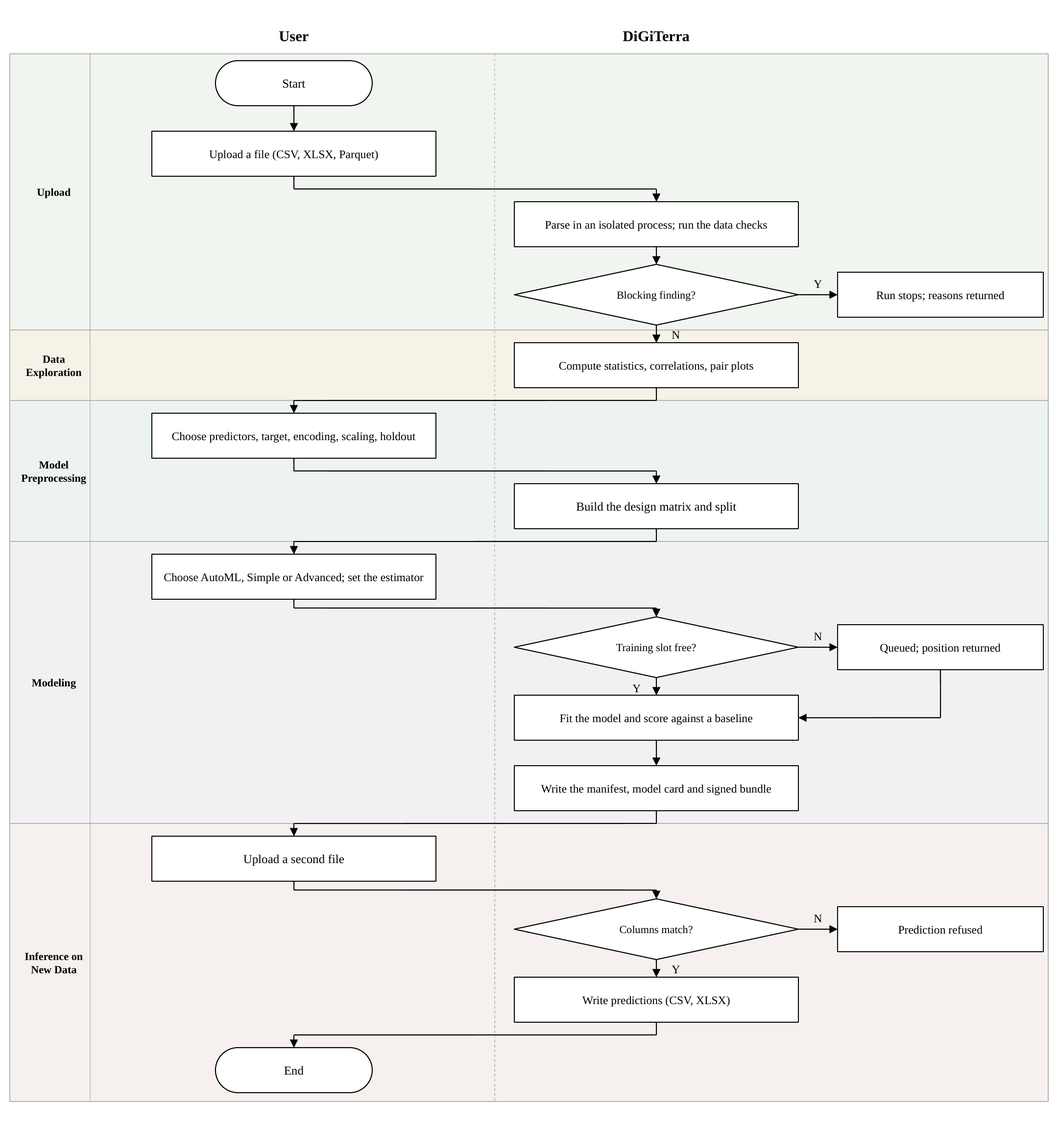
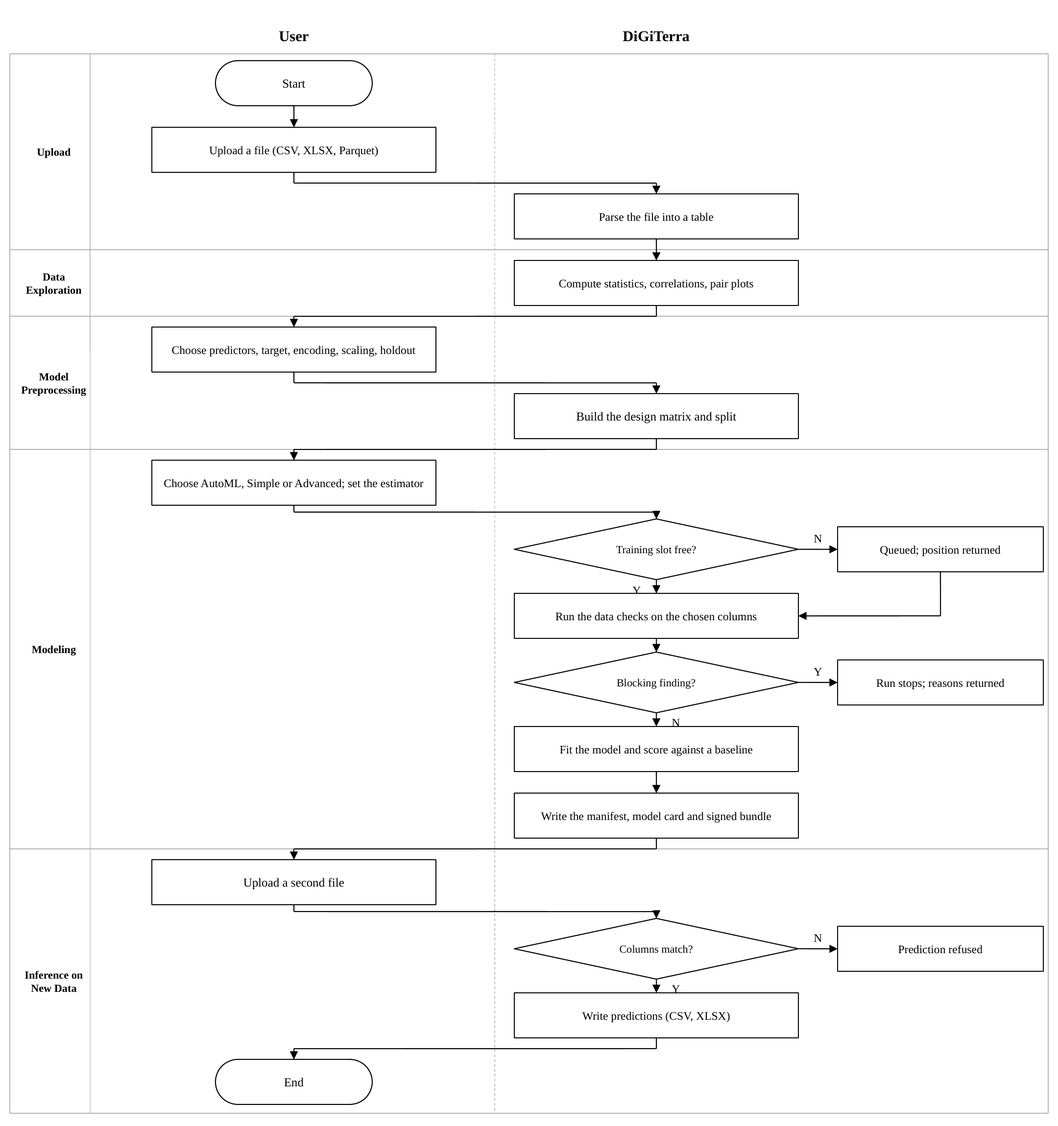
Paper: citation audit v4 fixes, AI usage disclosure, Figure 1 data checks; supplement release section
paper.md and paper.bib as revised after the citation audit of 2026-10-03
(26 citations of 25 references at 8e9f171; 8 partly supported sentences
rewritten to what the sources say; of 24 repository claims the records do
not fully support, 22 corrected and the EDX hosting description left for
the authors). Adds the JOSS AI usage disclosure (Claude Opus 5, Cursor)
with two references. Figure 1 draws the data checks in the Modeling band,
where app_model_training.py runs them, on a white ground. Body 1,745 words.

The JOSS supplement gains a release 0.1.0 section (sweep and round trip
69 of 69 on Linux and macOS, E1 rerun equal to the record, processor-type
difference in tree ensembles). The other docs/audit_2026-09-25 files carry
the commit hashes renamed after the 2026-09-30 history rewrite
(5192687 to 4e49ba9 and others), left uncommitted until now.

diff --git a/docs/audit_2026-09-25/joss_supplement.tex b/docs/audit_2026-09-25/joss_supplement.tex
@@ -1,12 +1,12 @@
-\newcommand{\DocFooter}{DiGiTerra 0.1.0, supplementary verification and comparison, 2026-09-25}
+\newcommand{\DocFooter}{DiGiTerra 0.1.0, supplementary verification and comparison, 2026-10-03}
 \input{common/preamble}
 \title{DiGiTerra 0.1.0: verification records and a comparison with no-code and low-code alternatives\\[4pt]\large Supplementary material to the JOSS submission}
 \author{Rowan R. Terra \and Paige E. DiGirolamo \and Djuna M. Gulliver \and Nancy J. Trun}
-\date{25 September 2026}
+\date{25 September 2026, release section added 3 October 2026}
 \begin{document}
 \maketitle
 
-\paragraph{TL;DR.} DiGiTerra reproduces a plain scikit-learn script to the last printed digit on ordinary least squares, k-nearest neighbors and multinomial logistic regression, and R, Excel, Orange and AI Studio agree with the same script to better than $10^{-12}$ on every value they were asked for; the one open cell is Orange's logistic probabilities on arm64, which differ by up to $8\times10^{-3}$ and are attributed, not yet established, to platform arithmetic under a loose solver tolerance. An adversarial review reproduced 25 defects (29 as itemized here), 17 of which changed a number a user would have read, and all are fixed under regression tests replayed by one script. Sixty-seven of 69 registered estimators train from an empty form and 66 of 67 round-trip through the signed bundle. Beside eleven alternatives, seven of them installed and driven on one machine, DiGiTerra is the one product whose run record carries the input hash and the package versions and whose model artifact is signed and loaded under an exact allowlist; it lacks the blending, database and scripting rows that the node-graph tools carry. Every desktop product compared is free of charge; the cloud products bill by the hour after a free tier.
+\paragraph{TL;DR.} DiGiTerra reproduces a plain scikit-learn script to the last printed digit on ordinary least squares, k-nearest neighbors and multinomial logistic regression, and R, Excel, Orange and AI Studio agree with the same script to better than $10^{-12}$ on every value they were asked for; the one open cell is Orange's logistic probabilities on arm64, which differ by up to $8\times10^{-3}$ and are attributed, not yet established, to platform arithmetic under a loose solver tolerance. An adversarial review reproduced 25 defects (29 as itemized here), 17 of which changed a number a user would have read, and all are fixed under regression tests replayed by one script. At the EDX commit, 67 of 69 registered estimators train from an empty form and 66 of 67 round-trip through the signed bundle; at release 0.1.0, all 69 train and round-trip, and the DiGiTerra side of the differential test reproduces every recorded value (Section~\ref{sec:release}). Beside eleven alternatives, seven of them installed and driven on one machine, DiGiTerra is the one product whose run record carries the input hash and the package versions and whose model artifact is signed and loaded under an exact allowlist; it lacks the blending, database and scripting rows that the node-graph tools carry. Every desktop product compared is free of charge; the cloud products bill by the hour after a free tier.
 
 \tableofcontents
 
@@ -14,6 +14,7 @@
 \input{common/sec_e1}
 \input{common/sec_review}
 \input{common/sec_sweep}
+\input{common/sec_release}
 \input{common/sec_interfaces}
 \input{common/sec_coverage}
 \input{common/sec_prices}

diff --git a/docs/audit_2026-09-25/common/sec_review.tex b/docs/audit_2026-09-25/common/sec_review.tex
@@ -4,7 +4,7 @@
 Three reviewers worked in parallel, one each on the HTTP routes, the modeling pipeline and the browser side, with the instruction to break the application rather than to describe it. Each reviewer had to reproduce a defect before it counted; the reproduction is what became the regression test. The review reported 25 reproduced defects. The changelog records them in fourteen entries, several of which bundle more than one fault; Table~\ref{tab:defects} separates the entries into the faults a reader would want to test one by one, which gives 29 rows. The count in the changelog is the reviewers'; the itemization is this document's.
 
 \small\begin{longtable}{@{}L{0.5cm}L{1.6cm}L{7.6cm}L{1.6cm}L{3.4cm}@{}}
-\caption{Defects reproduced by the review, by area. \emph{Effect} says what a user would have seen: a wrong number (result), code execution from a file (security), a run that failed or silently ignored an input (behavior). Every row is fixed at \code{5192687}; the test column names the file that guards it.}\label{tab:defects}\\
+\caption{Defects reproduced by the review, by area. \emph{Effect} says what a user would have seen: a wrong number (result), code execution from a file (security), a run that failed or silently ignored an input (behavior). Every row is fixed at \code{4e49ba9}; the test column names the file that guards it.}\label{tab:defects}\\
 \toprule
 \# & Area & Defect as reproduced & Effect & Guard \\
 \midrule
@@ -49,4 +49,4 @@ Seventeen rows change a number a reader would have trusted. Three of them deserv
 
 Rows 1 to 3 are the security findings. A bundle is signed with an installation key and verified on import, but a prefix test on the type allowlist admitted a builtin, and the loader trusted the type list inside the file rather than the application's own. The allowlist is now an exact set written by a census of every registered estimator (\code{python\_scripts/reporting/artifact\_allowlist.txt}, 66 of 67 estimators write and load; \code{birch} is refused rather than loaded unsafely), skops is given that list and never the file's, and the disk session store signs its objects file at save and verifies it at load with the same key.
 
-Every probe the three reviewers ran is preserved as \code{scripts/adversarial\_check.py}. It replays the route attacks, the pipeline tests and the browser attack with a hostile CSV whose headers and labels carry markup, and prints PASS or FAIL per probe with what it saw. On \code{5d480a3} it printed 10 of 10 in the container with the pinned Chromium (\code{docs/adversarial\_check\_2026-09-25.json}); the record from the day of the review is \code{docs/adversarial\_check\_2026-09-24.json}. It runs in about six minutes and is the check to run before any release.
+Every probe the three reviewers ran is preserved as \code{scripts/adversarial\_check.py}. It replays the route attacks, the pipeline tests and the browser attack with a hostile CSV whose headers and labels carry markup, and prints PASS or FAIL per probe with what it saw. On \code{f3e68b3} it printed 10 of 10 in the container with the pinned Chromium (\code{docs/adversarial\_check\_2026-09-25.json}); the record from the day of the review is \code{docs/adversarial\_check\_2026-09-24.json}. It runs in about six minutes and is the check to run before any release.

diff --git a/docs/audit_2026-09-25/common/sec_release.tex b/docs/audit_2026-09-25/common/sec_release.tex
@@ -1,0 +1,12 @@
+\section{Release 0.1.0}
+\label{sec:release}
+
+The sections above describe commit \code{4e49ba9}, the copy hosted on EDX. The JOSS submission is release 0.1.0 (commit \code{8e9f171}, 2026-09-27), which is later on the same branch. This section records what was rerun for the release and what changed; \code{CHANGELOG.md} lists every change under 0.1.0.
+
+\paragraph{Sweep and round trip.} Polynomial and Perceptron now have trainers, and Birch is written to the bundle as a centroid artifact (\code{BirchCentroids}), because skops refuses Birch's fitted tree. Every trainer now falls back to scikit-learn's own default for a parameter the form leaves blank, with \code{random\_state} taken from the run seed; before the change, 21 of 67 trainers set a value other than scikit-learn's beyond \code{random\_state} (\code{docs/trainer\_defaults\_2026-09-25.json} and \code{\_25b.json}). The sweep then trains 69 of 69 registry entries (\code{docs/every\_model\_sweep\_2026-09-25c.json}, Linux x86\_64; \code{\_25d.json}, macOS arm64), and the round trip writes and reloads all 69 with identical predictions on both machines (\code{docs/artifact\_roundtrip\_2026-09-25c.json} and \code{\_25d.json}). The four records were written on 2026-09-25; the commits between them and the release change the run record, the pairplot route and the progress stream, not the trainers.
+
+\paragraph{Differential test, rerun.} The DiGiTerra side of E1 was run again at the release tree (\code{docs/differential\_test\_E1\_rerun\_2026-09-25/}). Every DiGiTerra value in the new \code{RESULTS.csv} equals the value in the recorded one: 530 cells, 0 classed other.
+
+\paragraph{Processor types.} Comparing the two round-trip records (\code{scripts/compare\_roundtrip\_records.py}), 44 estimators give identical first-eight predictions on Linux x86\_64 and macOS arm64, 22 differ by no more than $4\times10^{-13}$ relative, and three tree ensembles differ by up to 3.6 percent (Bagging), 1.8 percent (ExtraTrees) and 0.95 percent (random forest). Their training data, seeds and bootstrap rows are bitwise identical on both machines; the trees first differ at exact ties between candidate splits, which the arm64 build of scikit-learn resolves differently because its compiler fuses multiplies and adds. A build of scikit-learn 1.9.0 with fused multiply-add turned off gives the Linux trees on the Mac in all 15 model and depth settings tested (\code{docs/tree\_platform\_difference\_2026-09-25/}). Each machine repeats its own result, and a model read from a bundle predicts the same values on both. The standard DiGiTerra keeps is conformance to the official scikit-learn release on the machine that runs it, which \code{tests/unit/test\_sklearn\_conformance.py} checks for the tree models; the manifest records the operating system and processor type, and \code{scripts/rerun\_bundle.py} prints a note when either differs from the recorded run.
+
+\paragraph{Other changes.} The guided page sends text predictors to the transformer and every model's hyperparameters by their scikit-learn names; a same-column pairplot no longer fails; the progress stream waits for the run record before it reports a result. Each has a regression test named in the changelog.

diff --git a/docs/audit_2026-09-25/common/sec_sources.tex b/docs/audit_2026-09-25/common/sec_sources.tex
@@ -1,10 +1,10 @@
 \section{Sources}
 \label{sec:sources}
 
-Repository records, all at commit \code{5192687} of \code{github.com/rowanterra/DiGiTerra}, branch \code{audit-fixes}:
+Repository records, all at commit \code{4e49ba9} of \code{github.com/rowanterra/DiGiTerra}, branch \code{audit-fixes}:
 
 \begin{itemize}
-\item \code{docs/differential\_test\_E1/}: \code{PLAN.txt}, \code{PROTOCOL.txt}, \code{NOTEBOOK.txt}, \code{RESULTS.csv}, \code{RESULT\_2026-09-24.txt}, \code{RESULT\_2026-09-25.txt}, \code{data/}, \code{oracle\_outputs/}, \code{reference\_outputs/}, \code{digiterra\_outputs/}, \code{digiterra\_outputs\_pre\_fix\_99dea69/}, \code{scripts/}.
+\item \code{docs/differential\_test\_E1/}: \code{PLAN.txt}, \code{PROTOCOL.txt}, \code{NOTEBOOK.txt}, \code{RESULTS.csv}, \code{RESULT\_2026-09-24.txt}, \code{RESULT\_2026-09-25.txt}, \code{data/}, \code{oracle\_outputs/}, \code{reference\_outputs/}, \code{digiterra\_outputs/}, \code{digiterra\_outputs\_pre\_fix\_0942e0c/}, \code{scripts/}.
 \item \code{CHANGELOG.md}, section 0.1.0; \code{tests/unit/test\_review\_2026\_09\_24.py}; \code{tests/unit/test\_bundle.py}; \code{tests/unit/test\_decimal\_setting.py}; \code{scripts/adversarial\_check.py}; \code{docs/adversarial\_check\_2026-09-24.json}; \code{docs/adversarial\_check\_2026-09-25.json}.
 \item \code{docs/every\_model\_sweep\_2026-09-24.json}; \code{docs/artifact\_roundtrip\_2026-09-24.json}; \code{python\_scripts/reporting/artifact\_allowlist.txt}.
 \item \code{docs/competitor\_survey\_2026-09-24.txt}; \code{docs/price\_survey\_2026-09-25.txt}; \code{docs/ACCESSIBILITY.md}; \code{docs/guided\_page\_aria\_transcript.txt}; \code{templates/guided.html}.
@@ -27,4 +27,4 @@ Vendor pages, read on the date given; the quoted words in this document are from
 \item Homebrew formulae API for the cask versions installed: knime 5.12.0, jasp 0.98.1.0, jamovi 2.7.37.0; Weka 3.8.7 from \url{https://sourceforge.net/projects/weka/} (2026-09-25).
 \end{itemize}
 
-Installed copies driven on 2026-09-25: Orange 3.39.0, Altair AI Studio 2026.0.1, KNIME Analytics Platform 5.12.0, Weka 3.8.7 (OpenJDK 21), JASP 0.98.1, jamovi 2.7.37, Microsoft Excel 16.03, all on macOS (Apple silicon); H2O-3 3.46.0.7 under Python 3.11 in a Linux container; DiGiTerra at \code{5192687} in the same container.
+Installed copies driven on 2026-09-25: Orange 3.39.0, Altair AI Studio 2026.0.1, KNIME Analytics Platform 5.12.0, Weka 3.8.7 (OpenJDK 21), JASP 0.98.1, jamovi 2.7.37, Microsoft Excel 16.03, all on macOS (Apple silicon); H2O-3 3.46.0.7 under Python 3.11 in a Linux container; DiGiTerra at \code{4e49ba9} in the same container.

diff --git a/docs/audit_2026-09-25/netl_record.tex b/docs/audit_2026-09-25/netl_record.tex
@@ -6,7 +6,7 @@
 \begin{document}
 \maketitle
 
-\paragraph{TL;DR.} The copy of DiGiTerra hosted on EDX is the same code as commit \code{5192687} on branch \code{audit-fixes}, and this record is what has been checked about it. The public release tag \code{v0.1.0} (2026-09-27) is later on that branch; the repository CHANGELOG lists what changed between the two. Ordinary least squares, k-nearest neighbors, logistic regression and descriptive statistics reproduce a scikit-learn script exactly and agree with R, Excel, Orange and AI Studio to better than $10^{-12}$ on every compared value except Orange's logistic probabilities on arm64 (up to $8\times10^{-3}$, cause inferred). The adversarial review of 2026-09-24 found 25 defects, three of them security findings in how a saved model was loaded, and 17 that changed a reported number; all are fixed and replayed by \code{scripts/adversarial\_check.py}, which is the pre-release gate. Against eleven alternatives, DiGiTerra's distinguishing rows are the run record (input hash, seed, package versions) and the signed artifact; its gaps are the blending rows (join, filter, formula columns, sampling), database sources and scripting. Every desktop alternative is free; the cloud alternatives bill by the hour and cannot run inside the laboratory network.
+\paragraph{TL;DR.} The copy of DiGiTerra hosted on EDX is the same code as commit \code{4e49ba9} on branch \code{audit-fixes}, and this record is what has been checked about it. The public release tag \code{v0.1.0} (2026-09-27) is later on that branch; the repository CHANGELOG lists what changed between the two. Ordinary least squares, k-nearest neighbors, logistic regression and descriptive statistics reproduce a scikit-learn script exactly and agree with R, Excel, Orange and AI Studio to better than $10^{-12}$ on every compared value except Orange's logistic probabilities on arm64 (up to $8\times10^{-3}$, cause inferred). The adversarial review of 2026-09-24 found 25 defects, three of them security findings in how a saved model was loaded, and 17 that changed a reported number; all are fixed and replayed by \code{scripts/adversarial\_check.py}, which is the pre-release gate. Against eleven alternatives, DiGiTerra's distinguishing rows are the run record (input hash, seed, package versions) and the signed artifact; its gaps are the blending rows (join, filter, formula columns, sampling), database sources and scripting. Every desktop alternative is free; the cloud alternatives bill by the hour and cannot run inside the laboratory network.
 
 \tableofcontents
 

diff --git a/docs/audit_2026-09-25/common/sec_e1.tex b/docs/audit_2026-09-25/common/sec_e1.tex
@@ -50,4 +50,4 @@ Excel and AI Studio descriptive statistics were added on 2026-09-25 and complete
 
 \subsection{What the test found in DiGiTerra}
 
-Three defects were established in the version under test (tree \code{99dea69}) and corrected before the results above were produced; the pre-fix outputs are kept in \code{digiterra\_outputs\_pre\_fix\_99dea69/}. First, the regression metrics on the page and in the manifest were rounded to three decimals before the decimal-places setting was applied, so a setting of ten printed \code{53.8080000000} for a test RMSE of 53.808429803715498. Second, descriptive statistics were rounded to four decimals, so the diabetes means printed as $-0.0$. Third, for nineteen classifiers a hyperparameter typed on the Advanced form never reached the estimator while the run record still recorded the request; KNeighbors with \code{n\_neighbors} 3 was fitted with 5. The first two are closed by \code{tests/unit/test\_decimal\_setting.py} and the E1 rerun; the third by \code{test\_knn\_classifier\_form\_values\_reach\_the\_estimator} and the pass-through of form values for all nineteen. The third finding is the one a user could not have seen: the manifest said 3 and the model used 5.
+Three defects were established in the version under test (tree \code{0942e0c}) and corrected before the results above were produced; the pre-fix outputs are kept in \code{digiterra\_outputs\_pre\_fix\_0942e0c/}. First, the regression metrics on the page and in the manifest were rounded to three decimals before the decimal-places setting was applied, so a setting of ten printed \code{53.8080000000} for a test RMSE of 53.808429803715498. Second, descriptive statistics were rounded to four decimals, so the diabetes means printed as $-0.0$. Third, for nineteen classifiers a hyperparameter typed on the Advanced form never reached the estimator while the run record still recorded the request; KNeighbors with \code{n\_neighbors} 3 was fitted with 5. The first two are closed by \code{tests/unit/test\_decimal\_setting.py} and the E1 rerun; the third by \code{test\_knn\_classifier\_form\_values\_reach\_the\_estimator} and the pass-through of form values for all nineteen. The third finding is the one a user could not have seen: the manifest said 3 and the model used 5.

diff --git a/docs/audit_2026-09-25/common/sec_scope.tex b/docs/audit_2026-09-25/common/sec_scope.tex
@@ -1,6 +1,6 @@
 \section{Scope and records}
 
-This document reports the verification work on DiGiTerra 0.1.0 as it stands at commit \code{5192687} on branch \code{audit-fixes}, and places the application beside the no-code and low-code alternatives that a research group could use instead. Every number in the audit sections is read from a file in the repository, and the file is named beside the number. Every statement about another product is read from that product's own documentation or from the product itself running on one machine, and the source and the date are given.
+This document reports the verification work on DiGiTerra 0.1.0 as it stands at commit \code{4e49ba9} on branch \code{audit-fixes}, and places the application beside the no-code and low-code alternatives that a research group could use instead. Every number in the audit sections is read from a file in the repository, and the file is named beside the number. Every statement about another product is read from that product's own documentation or from the product itself running on one machine, and the source and the date are given.
 
 Four records carry the audit. The differential test E1 (\code{docs/differential\_test\_E1/}) runs the same fixed train and test files through DiGiTerra and four independent programs and compares every printed value against a plain scikit-learn script. The adversarial review of 2026-09-24 (\code{CHANGELOG.md}, \code{tests/unit/test\_review\_2026\_09\_24.py}, \code{scripts/adversarial\_check.py}, \code{docs/adversarial\_check\_2026-09-25.json}) attacked the routes, the pipeline and the browser side and reproduced each defect before it was fixed. The estimator sweep (\code{docs/every\_model\_sweep\_2026-09-24.json}) trains every registered estimator through the function the web route calls. The artifact round trip (\code{docs/artifact\_roundtrip\_2026-09-24.json}) writes every fitted estimator to the bundle format, reads it back and compares predictions.
 

diff --git a/paper/paper.md b/paper/paper.md
@@ -31,13 +31,13 @@ affiliations:
     index: 3
   - name: Oak Ridge Institute for Science and Education, Oak Ridge, TN, United States
     index: 4
-date: 24 September 2026
+date: 3 October 2026
 bibliography: paper.bib
 ---
 
 # Summary
 
-DiGiTerra is a graphical interface for data exploration and machine learning on tabular data, written for researchers who need a model but do not write code. A user uploads a CSV, Excel, or Parquet file, examines it through descriptive statistics and figures, selects columns, applies preprocessing, and trains a regression, classification, or clustering model. The application registers 69 estimators from scikit-learn, 33 for regression, 24 for classification, and 12 for clustering, and every hyperparameter an estimator exposes remains editable. A fitted model can be applied to new rows, and each run writes a record carrying the input hash, random seed, requested settings, metrics, and installed package versions, so a result can be reproduced or audited after the session ends. DiGiTerra runs in a browser or as a desktop application on macOS, Windows, and Linux, and the source is released under the MIT license.
+DiGiTerra is a graphical interface for data exploration and machine learning on tabular data, written for researchers who need a model but do not write code. A user uploads a CSV, Excel, or Parquet file, examines it through descriptive statistics and figures, selects columns, applies preprocessing, and trains a regression, classification, or clustering model. The application registers 69 estimators from scikit-learn, 33 for regression, 24 for classification, and 12 for clustering, and every hyperparameter an estimator exposes remains editable. A fitted model can be applied to new rows, and each run writes a record carrying the input hash, random seed, requested settings, metrics, and the versions of Python and the core numerical packages, so a result can be reproduced or audited after the session ends. DiGiTerra runs in a browser, build scripts package it as a desktop application for macOS, Windows, and Linux, and the source is released under the MIT license.
 
 ![One DiGiTerra run. The left lane is what the user does, the right lane is what the application does, and the band behind each group of steps marks the page it belongs to. A blocking data check stops the run before a model is fitted.](DiGiTerra_Figure1.png)
 
@@ -45,37 +45,41 @@ DiGiTerra is a graphical interface for data exploration and machine learning on 
 
 Machine learning methods are widely adopted in scientific research [@kapoor2024reforms], yet a research group rarely holds both the data and the expertise to apply the right method, and whether experimentalists can use these algorithms independently is still an open question [@greener2022guide]. Interfaces that require no code can lower that barrier, but the existing options force a trade between cost, approachability, and control. A second gap is provenance: reporting guidance for machine-learning-based science asks authors to describe the source of the data, the train-test split or cross-validation folds, and every model trained [@kapoor2024reforms]. An interface that trains a model without recording those facts leaves its user unable to meet that standard.
 
-DiGiTerra is a free, open-source interface that needs no node graph, no command line, and no prior machine learning knowledge, keeps every hyperparameter editable, and writes a machine-readable record of each run.
+DiGiTerra is a free, open-source interface that needs no node graph and no command line, explains each setting in plain language, keeps every hyperparameter editable, and writes a machine-readable record of each run.
 
 # State of the field
 
-Eleven no-code and low-code interfaces were read from their documentation on 24 September 2026 (`docs/competitor_survey_2026-09-24.txt`). Amazon SageMaker Canvas [@aws2025canvas] and Azure Machine Learning [@microsoft2025azureml] bill for compute and run only in the vendor's cloud, as does Vertex AI. RapidMiner AI Studio is now a Siemens product [@siemens2026rapidminer]. H2O-3 reaches its models through the Flow interface [@h2o2026h2o3], which its documentation marks as deprecated. KNIME composes an analysis from processing nodes [@fillbrunn2017knime] and Orange pairs a scripting library with a visual programming platform [@demsar2013orange]; in both, the user designs the graph before a model is fitted. Interface design decides whether such a system works for a non-expert at all [@dudley2018review]; a workbench built for the domain specialist goes back to the first Weka [@holmes1994weka].
+Eleven no-code and low-code interfaces were read from their documentation on 24 September 2026 (`docs/competitor_survey_2026-09-24.txt`). Amazon SageMaker Canvas runs in the AWS cloud and bills for each hour a workspace is in use [@aws2025canvas], and Azure Machine Learning bills for the compute a run uses [@microsoft2025azureml]. RapidMiner AI Studio is now a Siemens product [@siemens2026rapidminer]. H2O-3 offers a no-code web interface, Flow, which its documentation marks as deprecated in favor of the Python and R clients [@h2o2026h2o3]. KNIME composes an analysis from processing nodes that pass data to each other [@fillbrunn2017knime], and Orange pairs a scripting library with a visual programming platform [@demsar2013orange]; in both, the analysis is a workflow assembled from components. User interface design is fundamental to the success of interactive machine learning for non-experts [@dudley2018review], and the first Weka was already built for the domain specialist [@holmes1994weka].
 
-Three gaps recur. Only RapidMiner and DataRobot offer a distinct novice path and expert path. The cloud AutoML products do not let the user edit hyperparameters, and the desktop tools that do (Orange, KNIME, Weka, JASP) raise no data-quality findings before training beyond missing-value counts. No product read states that its run record includes a hash of the input data or the installed package versions, and among the free tools jamovi alone documents screen reader support.
+Three gaps recur. Only RapidMiner and DataRobot offer a distinct novice path and expert path. SageMaker Canvas and Azure Machine Learning offer no per-model hyperparameters in their no-code interfaces, and the desktop tools that do (Orange, KNIME, Weka, JASP) document no leakage, duplicate-row or class-imbalance check before training. No product read states that its run record includes a hash of the input data or the installed package versions, and among the free tools jamovi alone documents screen reader support.
 
 # Software design
 
-Preprocessing covers missing values and zeros, one-hot encoding of text columns, stratified, time-ordered and grouped holdouts, and scaling. When no model is named on the AutoML page, a candidate set is scored by cross-validation on the same folds over several seeds and the best is trained; the fold scores are drawn as one box per candidate, so a winner separated from the runner-up by less than the fold-to-fold spread is shown as such. On the inference page a figure sets the spread of every predictor in the training rows against the rows being predicted.
+Preprocessing covers missing values and zeros, one-hot encoding of text columns, stratified, time-ordered and grouped holdouts, and scaling. When no model is named on the AutoML page, a regression or classification candidate set is scored by five-fold cross-validation on the same folds over three seeds (one above 5,000 rows) and the best is trained; the fold scores are drawn as one box per candidate, so a winner separated from the runner-up by less than the fold-to-fold spread is shown as such. On the inference page a figure sets the spread of every numeric predictor in the training rows against the rows being predicted.
 
-Before a run starts, data checks look for a feature that duplicates the target, a categorical column that maps one to one onto the class, constant and identifier columns, heavy missingness, duplicate rows, class imbalance, and too few rows for the split. A blocking finding stops the run; a user who overrides one must write a justification, and the run is then labeled as not valid for decision use. Each fitted model is scored against a baseline on the same validation rows.
+Before a run starts, data checks look for a feature that duplicates the target, a categorical column that maps one to one onto the class, constant and identifier columns, heavy missingness, duplicate rows, class imbalance, and too few rows for the split. A blocking finding stops the run; a user who overrides one must write a justification, and the run is then labeled as not valid for decision use. Each fitted regression or classification model is scored against a baseline, the training mean or the most common class, on the same validation rows.
 
-The interface ships in two forms on the same routes. The classic page holds Simple, Advanced and AutoML modes. The guided page (`/guided`) is four steps, one on screen at a time, with a plain-language explanation on every control, hyperparameter and metric, and a Full choice that opens a hyperparameter table filled from the estimator's own signature, so names and defaults cannot drift from scikit-learn. The page is built to WCAG 2.2 AA, and a Chromium test runs axe-core under the A and AA rule sets with no serious violation allowed; `docs/ACCESSIBILITY.md` states what is checked and what is not claimed.
+The interface ships in two forms on the same routes. The classic page holds Simple, Advanced and AutoML modes. The guided page (`/guided`) is four steps, one on screen at a time, with a plain-language explanation on every control and metric and on the common hyperparameters, and a Full choice that opens a hyperparameter table filled from the estimator's own signature, so names and defaults cannot drift from scikit-learn. The page is built to WCAG 2.2 AA, and a Chromium test runs axe-core under the A and AA rule sets with no serious violation allowed; `docs/ACCESSIBILITY.md` states what is checked and what is not claimed.
 
-Every run writes a manifest and a model card. The manifest records the SHA-256 of the uploaded bytes, the request as submitted, the seed, the estimator and its parameters, preprocessing and split, metrics, baseline, data-check findings, and every installed package version. Models are stored with skops rather than pickle, so loading builds only allowlisted types, and each installation signs its bundles with an HMAC-SHA256 key that import verifies. Command-line scripts score and rerun a bundle without the interface.
+Every run writes a manifest and a model card. The manifest records the SHA-256 of the uploaded bytes, the request as submitted, the seed, the estimator and its parameters, preprocessing and split, metrics, baseline, data-check findings, and the versions of Python, DiGiTerra and the numerical packages. Models are stored with skops rather than pickle, so loading builds only allowlisted types, and each installation signs its bundles with an HMAC-SHA256 key that import verifies. Command-line scripts score and rerun a bundle without the interface.
 
-The application is written in Python 3.11 and 3.12 [@psf2026python], with HTML [@whatwg2026html] and JavaScript [@ecma2024ecmascript] on the front end, and Flask 3.1.3 [@pallets2026flask] with Werkzeug 3.1.8 [@pallets2026werkzeug] serves it. Scikit-learn 1.9.0 [@pedregosa2011sklearn] supplies the estimators, preprocessing steps, and metrics; NumPy 1.26.4 [@harris2020numpy], pandas 2.3.3 [@mckinney2010pandas], and SciPy 1.17.1 [@virtanen2020scipy] handle arrays, frames, and statistics; matplotlib 3.11.1 [@hunter2007matplotlib] and seaborn 0.13.2 [@waskom2021seaborn] draw the figures; SHAP 0.49.1 [@lundberg2017shap] produces the model explanations; skops 0.14.0 [@skops2026] writes the artifacts. A Flask application was chosen over a desktop toolkit so that one code base serves a researcher's own machine and a hosted instance behind an institutional proxy. Uploaded files are parsed in a separate process under a memory ceiling and a wall clock.
+The application is written in Python 3.11 and 3.12 [@psf2026python], with HTML [@whatwg2026html] and JavaScript [@ecma2024ecmascript] on the front end, and Flask 3.1.3 [@pallets2026flask] with Werkzeug 3.1.8 [@pallets2026werkzeug] serves it. Scikit-learn 1.9.0 [@pedregosa2011sklearn] supplies the estimators, preprocessing steps, and metrics; NumPy 1.26.4 [@harris2020numpy], pandas 2.3.3 [@mckinney2010pandas], and SciPy 1.17.1 [@virtanen2020scipy] handle arrays, frames, and statistics; matplotlib 3.11.1 [@hunter2007matplotlib] and seaborn 0.13.2 [@waskom2021seaborn] draw the figures; SHAP 0.49.1 [@lundberg2017shap] produces the model explanations; skops 0.14.0 [@skops2026] writes the artifacts. A Flask application was chosen over a desktop toolkit so that one code base serves a researcher's own machine and a hosted instance behind an institutional proxy. When DiGiTerra runs as a hosted server, uploaded files are parsed in a separate process under a memory ceiling and a wall clock.
 
 # Verification
 
-Three records in the repository state what the software does with numbers. A sweep trains every registered estimator on a matching example dataset through the function the web route calls, with the defaults an empty form submits: 69 of 69 entries train. A second script writes and reloads every estimator through the bundle format and compares predictions: 69 of 69 round-trip identically, Birch through a centroid artifact because skops refuses its fitted tree.
+Three records in the repository state what the software does with numbers. A sweep trains every registered estimator on a matching example dataset through the function the web route calls, with the defaults an empty form submits (16 models also need a value for a required field): 69 of 69 entries train. A second script writes and reloads every estimator through the bundle format and compares predictions: 69 of 69 round-trip identically, Birch through a centroid artifact because skops refuses its fitted tree.
 
-The third record is a black-box differential test. Shuffled copies of the iris and diabetes example files were split once into fixed train and test halves (120 and 30 rows; 353 and 89 rows) and run with the same predictors and settings in DiGiTerra, Orange 3.39.0, RapidMiner AI Studio 2026.0.1 and R 4.5.1, each twice, with a plain scikit-learn script as the arbiter. For ordinary least squares the intercept, the ten coefficients and all 89 test predictions agree across the four programs at six significant figures; for k-nearest neighbors all 30 predicted classes agree; for logistic regression DiGiTerra reproduces scikit-learn's class probabilities exactly. The plan, case files, every program's saved output and the comparison script ship in `docs/differential_test_E1/`. The test found three defects in the version under test, among them a hyperparameter typed on the Advanced form that never reached nineteen classifiers. An adversarial review of the routes, the pipeline and the browser side found a further set, each reproduced before it was fixed and each now under a regression test; two changed reported numbers (mean and median fills had included the target column; binary ROC AUC had been scored against string labels rather than the estimator's class order), and the changelog lists the rest.
+The third record is a black-box differential test. Shuffled copies of the iris and diabetes example files were split once into fixed training and test sets (120 and 30 rows; 353 and 89 rows) and run with the same predictors and settings in DiGiTerra, Orange 3.39.0, RapidMiner AI Studio 2026.0.1 and R 4.5.1, the reference programs twice each, with a plain scikit-learn script as the arbiter. For ordinary least squares the ten coefficients and all 89 test predictions agree across the four programs at six significant figures, and the intercept agrees in the three programs that export it; for k-nearest neighbors all 30 predicted classes agree; for logistic regression DiGiTerra reproduces scikit-learn's class probabilities to within 3e-16, 71 of 90 bit for bit. The plan, case files, every program's saved output and the comparison script ship in `docs/differential_test_E1/`. The test found three defects in the version under test, among them a hyperparameter typed on the Advanced form that never reached nineteen classifiers. An adversarial review of the routes, the pipeline and the browser side found 25 further defects, each reproduced before it was fixed and now guarded by a regression test or a replayed probe; 17 of the 29 faults they itemize changed a reported number, and the changelog lists them.
 
-A unit and integration suite runs on Linux and macOS across both supported Python versions. Ten example datasets ship with the application, among them the iris measurements of @fisher1936iris and the Palmer Archipelago penguin data of @gorman2014penguins.
+A unit and integration suite runs on Linux and macOS across both supported Python versions. Ten example datasets ship in the repository, among them the iris measurements of @fisher1936iris and the Palmer Archipelago penguin data of @gorman2014penguins.
 
 # Research impact statement
 
-The Department of Energy's National Energy Technology Laboratory hosts DiGiTerra on its internal Energy Data eXchange platform (EDX) as a laboratory-approved executable for staff who model geochemical and materials data without writing code. EDX is not reachable from outside the laboratory, so the deployment cannot be linked here; the Phase 2 application under which it was accepted into the EDX Incubator ships in the repository (`docs/EDX_Incubator_Phase2_Application_Answers.pdf`) and records the hosting terms and the initial user group. The hosted copy is the same code as the public release, so a result produced inside the laboratory and one produced from the public repository carry the same run record.
+The Department of Energy's National Energy Technology Laboratory hosts DiGiTerra on its internal Energy Data eXchange platform (EDX) as a laboratory-approved executable for staff who model geochemical and materials data without writing code. EDX is not reachable from outside the laboratory, so the deployment cannot be linked here; the Phase 2 application under which it was accepted into the EDX Incubator ships in the repository (`docs/EDX_Incubator_Phase2_Application_Answers.pdf`) and records the requested hosting arrangement and the initial user group. The hosted copy is built from the same repository as the public release and writes a run record with the same fields.
+
+# AI usage disclosure
+
+Claude Opus 5 [@anthropic2026claudeopus5] and Cursor [@anysphere2026cursor] were used to audit and assist with the user interface code. Their changes were checked by the test suites and the verification records above.
 
 # Author contributions
 
